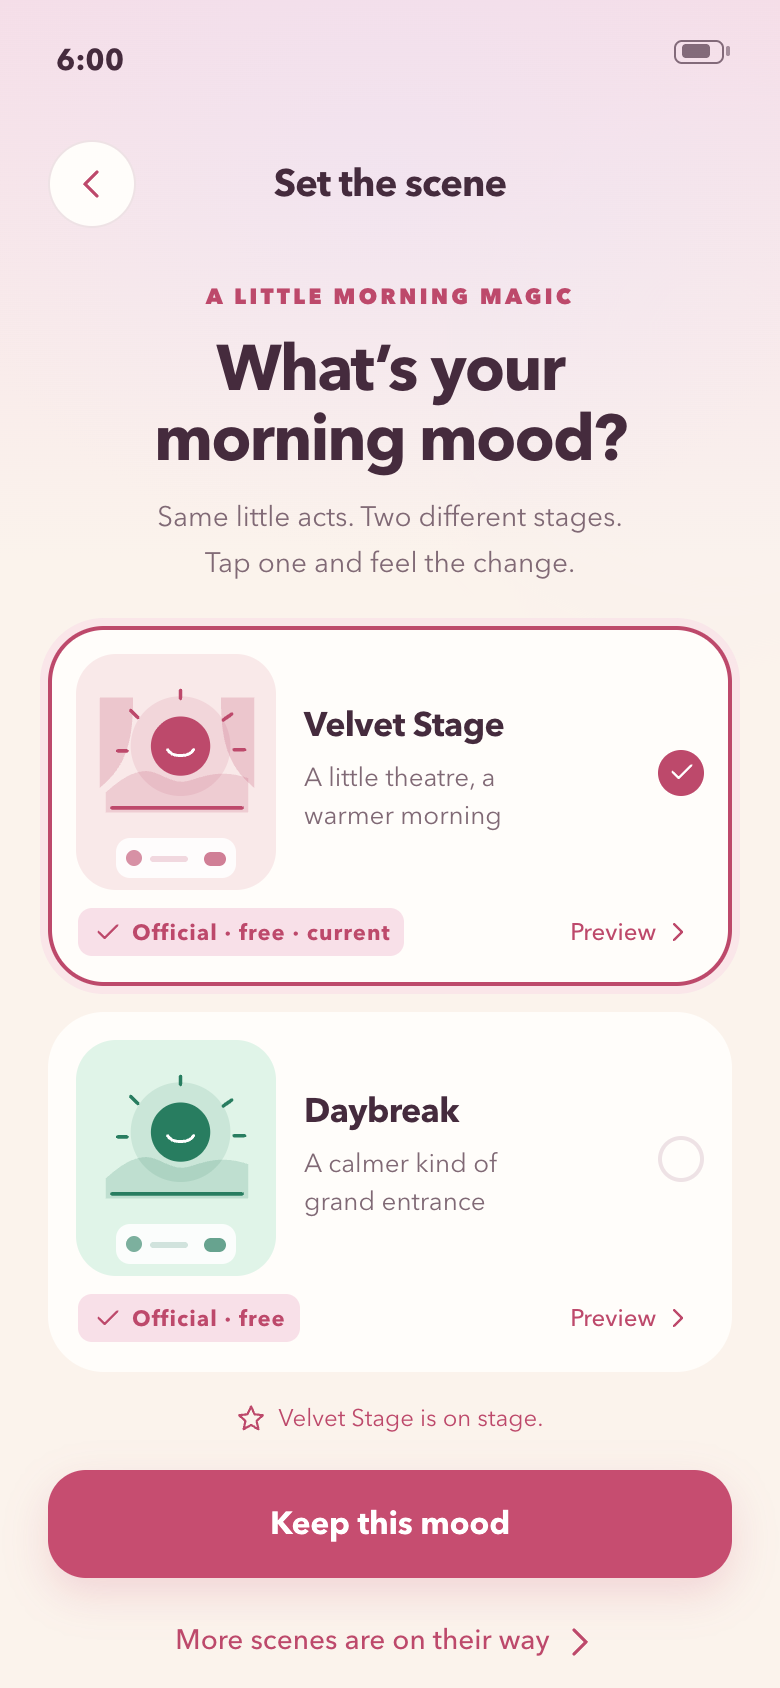
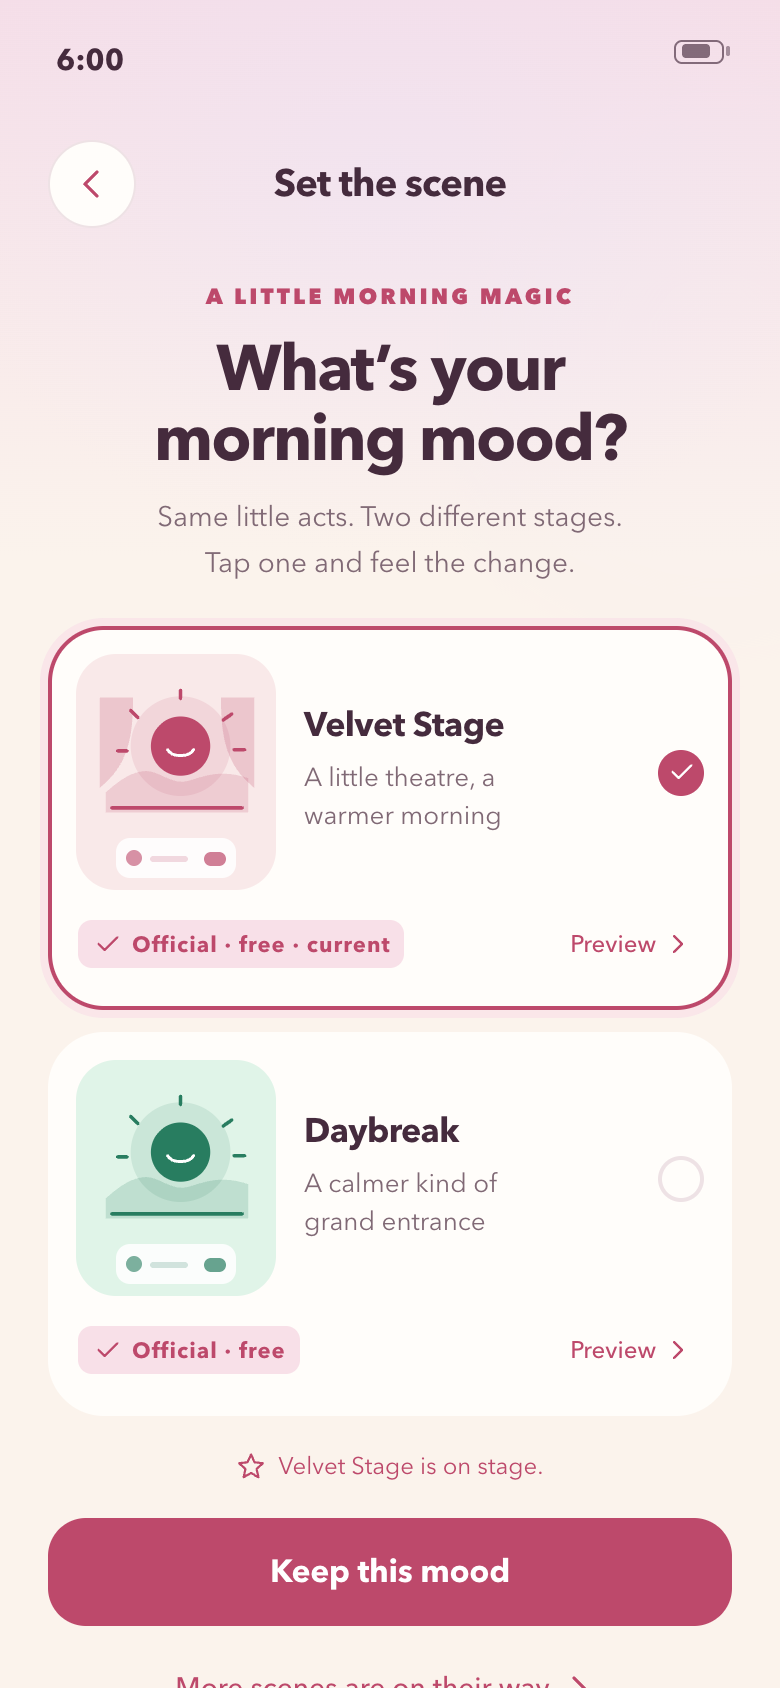
Polish v5 touch targets and refresh final dual-theme designs

diff --git a/404.html b/404.html
@@ -1380,6 +1380,7 @@ button:active { transform: scale(.975); }
 .run-orbit > span { color:var(--rose); line-height:1; margin-bottom:6px; }.run-orbit > span .v5-icon { width:18px; height:18px; }.run-orbit small { color:var(--muted); font-size:9px; letter-spacing:.08em; margin-top:7px; }.run-empty-card .morning-art { width:96px; height:80px; margin:0 0 12px; }.run-empty-card h2 { font-size:21px; margin:0; letter-spacing:-.5px; }.run-empty-card .secondary { width:100%; }.section-heading > span { font-size:11px; color:var(--muted); }.achievement b { display:block; color:var(--gold); margin-bottom:5px; }.achievement strong,.achievement small { display:block; }.achievement strong { font-size:11px; line-height:1.4; }.achievement small { margin-top:4px; font-size:10px; color:var(--muted); }.run-history-row .history-dot { color:var(--rose); }.run-history-row > span:nth-child(2) { flex:1; }.run-local-note { text-align:center; margin-top:20px; }
 .theme-choice-footer .theme-free-label,.theme-free-label,.next-show-orbit .orbit-note,.preview-demo-top span,.preview-demo-orbit > span,.preview-demo-card small,.run-orbit small,.achievement small,.selected-badge { font-size:11px; }
 .theme-choice-footer .text-button { width:auto; flex:none; }.theme-choice-footer .theme-free-label { white-space:nowrap; }
+.sound-action,.theme-choice-footer .text-button,.section-heading .text-button { min-height:44px; }
 .theme-current-card small,.theme-current-card em,.settings-footnote { font-size:12px; line-height:1.5; }.settings-footnote { color:var(--muted); text-align:center; margin:20px 0 4px; }
 .theme-choice-meta small,.settings-link small,.alarm-meta,.run-caption,.morning-note small { font-size:13px; }
 .rehearsal-card__icon { width:44px; height:44px; display:grid; place-items:center; background:var(--rose-soft); color:var(--rose); border-radius:16px; flex:0 0 44px !important; }.rehearsal-card__icon .v5-icon { width:22px; height:22px; }

diff --git a/index.html b/index.html
@@ -1380,6 +1380,7 @@ button:active { transform: scale(.975); }
 .run-orbit > span { color:var(--rose); line-height:1; margin-bottom:6px; }.run-orbit > span .v5-icon { width:18px; height:18px; }.run-orbit small { color:var(--muted); font-size:9px; letter-spacing:.08em; margin-top:7px; }.run-empty-card .morning-art { width:96px; height:80px; margin:0 0 12px; }.run-empty-card h2 { font-size:21px; margin:0; letter-spacing:-.5px; }.run-empty-card .secondary { width:100%; }.section-heading > span { font-size:11px; color:var(--muted); }.achievement b { display:block; color:var(--gold); margin-bottom:5px; }.achievement strong,.achievement small { display:block; }.achievement strong { font-size:11px; line-height:1.4; }.achievement small { margin-top:4px; font-size:10px; color:var(--muted); }.run-history-row .history-dot { color:var(--rose); }.run-history-row > span:nth-child(2) { flex:1; }.run-local-note { text-align:center; margin-top:20px; }
 .theme-choice-footer .theme-free-label,.theme-free-label,.next-show-orbit .orbit-note,.preview-demo-top span,.preview-demo-orbit > span,.preview-demo-card small,.run-orbit small,.achievement small,.selected-badge { font-size:11px; }
 .theme-choice-footer .text-button { width:auto; flex:none; }.theme-choice-footer .theme-free-label { white-space:nowrap; }
+.sound-action,.theme-choice-footer .text-button,.section-heading .text-button { min-height:44px; }
 .theme-current-card small,.theme-current-card em,.settings-footnote { font-size:12px; line-height:1.5; }.settings-footnote { color:var(--muted); text-align:center; margin:20px 0 4px; }
 .theme-choice-meta small,.settings-link small,.alarm-meta,.run-caption,.morning-note small { font-size:13px; }
 .rehearsal-card__icon { width:44px; height:44px; display:grid; place-items:center; background:var(--rose-soft); color:var(--rose); border-radius:16px; flex:0 0 44px !important; }.rehearsal-card__icon .v5-icon { width:22px; height:22px; }
